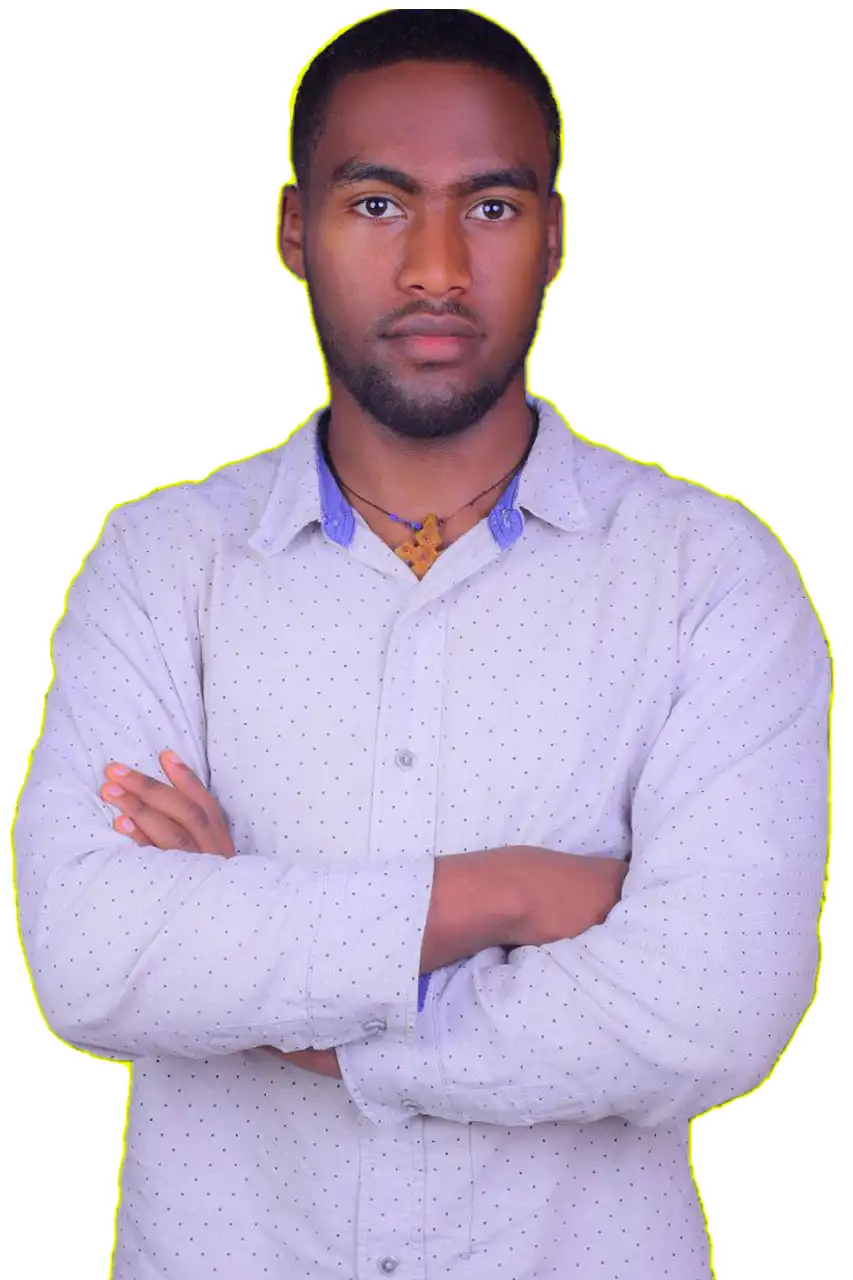
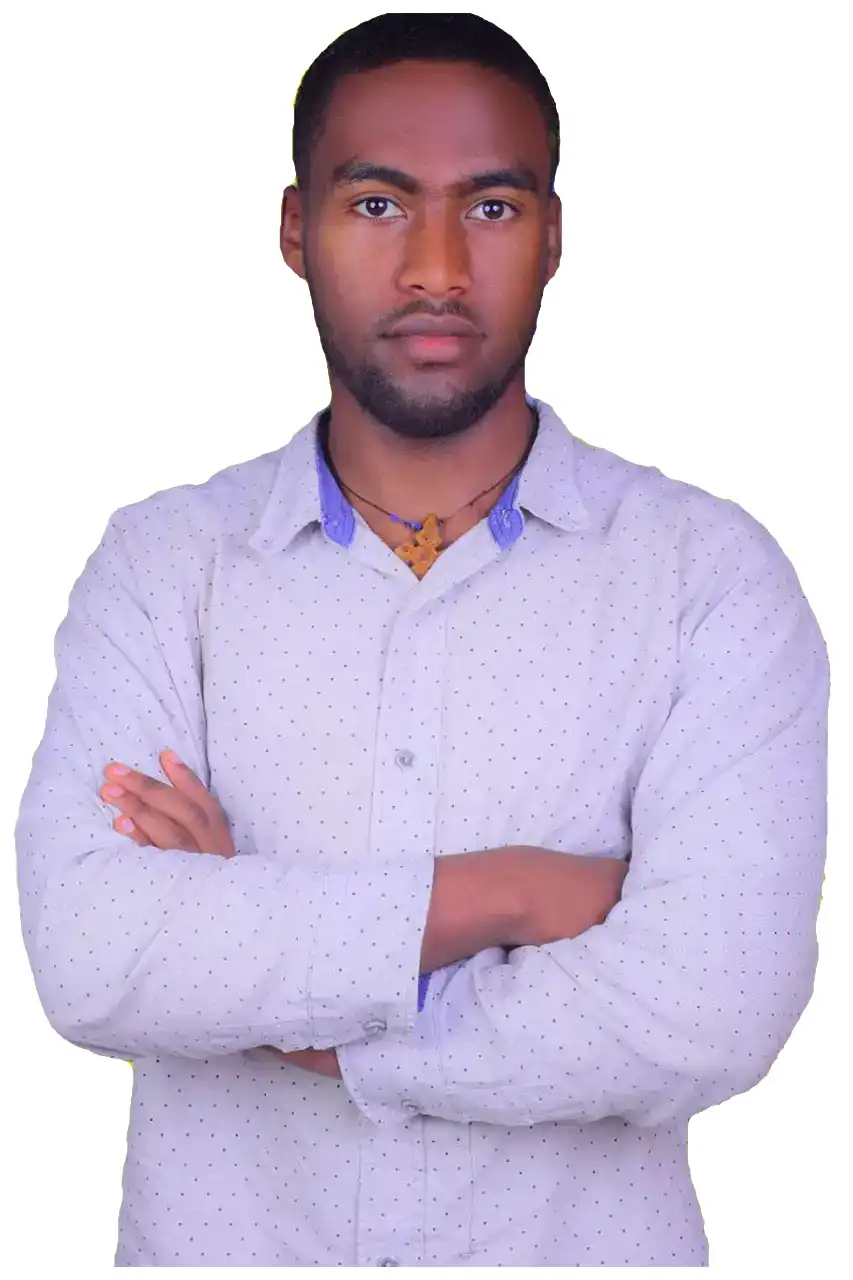
profile pictures is modified and univerity grade report is added

diff --git a/src/index.html b/src/index.html
@@ -589,7 +589,7 @@
                     <a href="nationalExams.html"><button class="education-button">View Docs</button></a>
                 </div>
                 <div class="box university">
-                    <img src="img/university.jpg" class="education-img"/>
+                    <img src="img/1 (15).jpg" class="education-img"/>
                     <h1 class="text-xl font-extrabold mt-5">University</h1>
                     <h1 class="text-lg font-bold mt-5">Bsc. Information Technology</h1>
                     <h1 class="">Bahirdar University (BIT)</h1>

diff --git a/src/nationalExams.html b/src/nationalExams.html
@@ -11,9 +11,9 @@
 
 <body  class="absolute inset-0 bg-cover bg-center" style="background-image: url('../img/gifbg.gif');">
 
-    <img src="../img/1 (11).jpg" class="w-full">
-    <img src="../img/1 (13).jpg" class="w-full">
-    <img src="../img/1 (10).jpg" class="w-full">
+    <img src="img/1 (11).jpg" class="w-full">
+    <img src="img/1 (13).jpg" class="w-full">
+    <img src="img/1 (10).jpg" class="w-full">
    
 
 </body>

diff --git a/src/transcripts.html b/src/transcripts.html
@@ -11,8 +11,8 @@
 
 <body  class="absolute inset-0 bg-cover bg-center" style="background-image: url('../img/gifbg.gif');">
 
-    <img src="../img/1 (14).jpg" class="w-full">
-    <img src="../img/1 (12).jpg" class="w-full">
+    <img src="img/1 (14).jpg" class="w-full">
+    <img src="img/1 (12).jpg" class="w-full">
    
 
 </body>

diff --git a/src/universityGrades.html b/src/universityGrades.html
@@ -11,8 +11,7 @@
 
 <body  class="absolute inset-0 bg-cover bg-center" style="background-image: url('../img/gifbg.gif');">
 
-    <!-- <img src="../img/1 (11).jpg" class="w-full"> -->
-  <h1 class="text-5xl text-white font-bold mx-auto">Coming soon !</h1> 
+    <img src="img/1 (15).jpg" class="w-full">
 
 </body>
 </html>

diff --git a/src/output.css b/src/output.css
@@ -919,11 +919,6 @@ video {
   line-height: 2.25rem;
 }
 
-.text-5xl {
-  font-size: 3rem;
-  line-height: 1;
-}
-
 .text-lg {
   font-size: 1.125rem;
   line-height: 1.75rem;
